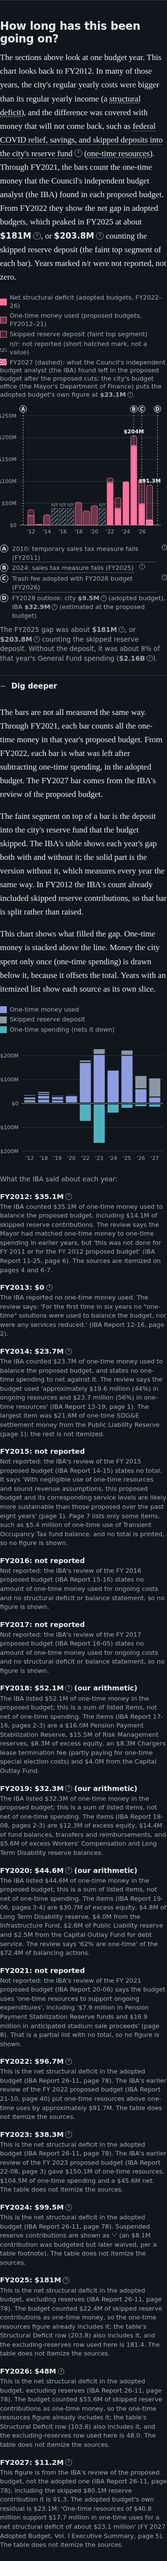
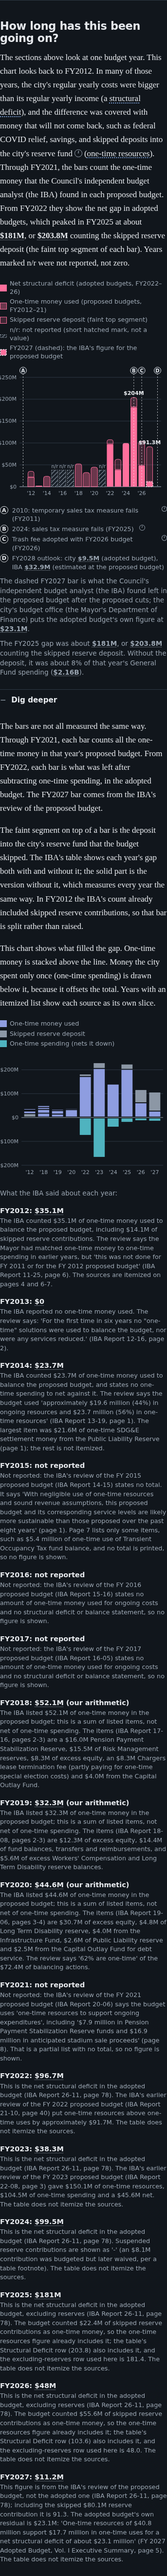
style(site): quieter chart furniture; the acceptance run clicks every footnote
Headline cards take their own height instead of stretching to the tallest. The waterfall's
numbered list sits in the text column. The history chart's legend keeps short labels and
its FY2027 explanation moves to a caption. The cuts tables lose the Source column: each
row's source hangs off the item name and the reason. The calculator's framing line is
sentence case. accept.mjs now opens all source popovers once at 1200px and fails if any
lands off the page or away from its control.

Changed region(s): [[0.0, 0.0, 0.9913, 1.0], [0.6706, 0.9688, 0.7289, 1.0], [0.9913, 0.1875, 1.0, 0.2188]]

diff --git a/site/charts/deficit-bars.js b/site/charts/deficit-bars.js
@@ -139,13 +139,7 @@ export function render(el, data, colors) {
   legendItem(legend, '<svg width="14" height="14" aria-hidden="true"><rect x=".5" y=".5" width="13" height="13" fill="var(--gap)" fill-opacity=".38" stroke="var(--gap)"/></svg>', 'One-time money used (proposed budgets, FY2012\u201321)');
   legendItem(legend, '<svg width="14" height="14" aria-hidden="true"><rect x=".5" y=".5" width="13" height="13" fill="var(--gap)" fill-opacity=".2" stroke="var(--gap)"/></svg>', 'Skipped reserve deposit (faint top segment)');
   legendItem(legend, '<svg width="14" height="14" aria-hidden="true"><rect x=".5" y="7.5" width="13" height="6" fill="url(#hatch)" stroke="var(--muted)" stroke-dasharray="2 2"/></svg>', 'n/r: not reported (short hatched mark, not a value)');
-  const note27 = document.createElement('li');
-  note27.className = 'legend-note';
-  note27.innerHTML = '<svg width="14" height="14" aria-hidden="true" style="vertical-align:-2px;margin-right:6px"><rect x="1" y="1" width="12" height="12" fill="var(--gap)" stroke="var(--text)" stroke-width="1.5" stroke-dasharray="3 2"/></svg>';
-  note27.append("FY2027 (dashed): what the Council's independent budget analyst (the IBA) found left in the proposed budget after the proposed cuts; the city's budget office (the Mayor's Department of Finance) puts the adopted budget's own figure at ");
-  if (data.fy27_adopted) { const f = document.createElement('span'); srcAttrs(f, data.fy27_adopted); f.textContent = `$${data.fy27_adopted.value}M`; note27.append(f); }
-  note27.append('.');
-  legend.append(note27);
+  legendItem(legend, '<svg width="14" height="14" aria-hidden="true"><rect x="1" y="1" width="12" height="12" fill="var(--gap)" stroke="var(--text)" stroke-width="1.5" stroke-dasharray="3 2"/></svg>', "FY2027 (dashed): the IBA's figure for the proposed budget");
   el.append(legend);
 
   const svg = d3.select(el).append('svg')
@@ -284,6 +278,15 @@ export function render(el, data, colors) {
     ol.append(li);
   });
   el.append(ol);
+  const cap27 = document.createElement('p');
+  cap27.className = 'chart-cap';
+  cap27.append("The dashed FY2027 bar is what the Council's independent budget analyst (the IBA) found left in the proposed budget after the proposed cuts");
+  if (data.fy27_adopted) {
+    const f = document.createElement('span'); srcAttrs(f, data.fy27_adopted); f.textContent = `$${data.fy27_adopted.value}M`;
+    cap27.append("; the city's budget office (the Mayor's Department of Finance) puts the adopted budget's own figure at ", f);
+  }
+  cap27.append('.');
+  el.append(cap27);
   if (data.stats.peak_share != null) {
     const cap = document.createElement('p');
     cap.className = 'chart-cap';

diff --git a/site/cuts.js b/site/cuts.js
@@ -1,7 +1,7 @@
 // Chapter 2 dig-deeper tables: FY2027 reductions and what was recommended or added back.
 // Source spans use the shared .figure + data-src-* convention; app.js mounts the popover buttons.
 import { money } from './format.js';
-import { srcData } from './sources.js';
+import { srcData, cite } from './sources.js';
 
 function srcSpan(src, text) {
   const s = document.createElement('span');
@@ -60,26 +60,23 @@ function tableBlock(title, intro, heads, rows) {
   return frag;
 }
 
-// The source link names where the row came from ("May Revision", "IBA-recommended Council modification"), not a fixed label.
-export const statusLabel = (status) => (status || 'Source').split(' (')[0].trim();
-
 export function renderCuts(el, cuts) {
   const amount = (a) => (a ? srcSpan(a.source, money(a.value)) : 'not stated');
+  // The row's source hangs off the item name and the reason's off the reason, rather than a column of "Cut / Reason".
   const red = cuts.reductions.map((r) => [
-    r.item,
+    cite(r.source, r.item),
     r.fund && r.fund !== 'General Fund' ? `${r.dept} (${r.fund})` : r.dept,
     amount(r.amount_m),
-    r.reason,
-    [srcSpan(r.source, 'Cut'), ' ', srcSpan(r.reason_source, 'Reason')],
+    cite(r.reason_source, r.reason),
   ]);
-  const res = cuts.restorations.map((r) => [r.item, r.status, amount(r.amount_m), srcSpan(r.source, statusLabel(r.status))]);
+  const res = cuts.restorations.map((r) => [cite(r.source, r.item), r.status, amount(r.amount_m)]);
   el.replaceChildren(
     tableBlock('What the budget cut',
       'These are the reductions listed under "Critical Reductions" in the adopted budget. The amounts are the proposed-budget figures from the review by the Council\'s independent budget analyst (the IBA), and some were later partly added back (see the next table). The reasons come from the IBA\'s department reviews.',
-      ['Item', 'Department', 'Amount proposed', 'Reason', 'Source'], red),
+      ['Item', 'Department', 'Amount proposed', 'Reason'], red),
     tableBlock('Recommended or added back',
       'Items that the Mayor\'s revised proposal (the May Revision) put back or that the IBA recommended the Council change, and one the Mayor commented on. Each row says which.',
-      ['Item', 'Where it came from', 'Amount', 'Source'], res),
+      ['Item', 'Where it came from', 'Amount'], res),
   );
 }
 

diff --git a/site/styles.css b/site/styles.css
@@ -241,7 +241,7 @@ main { padding-bottom: 80px; }
 .gap-cols { display: grid; gap: 16px; grid-template-columns: 1fr; }
 @media (min-width: 640px) { .gap-cols.n2 { grid-template-columns: 1fr 1fr; } }
 .gap-col { background: var(--surface); border: 1px solid var(--rule); border-radius: 10px; padding: 16px; min-width: 0; }
-.gap-framing { margin: 0; font: 650 0.8rem/1.3 var(--font-ui); letter-spacing: 0.06em; text-transform: uppercase; color: var(--muted); }
+.gap-framing { margin: 0; font: 650 0.85rem/1.3 var(--font-ui); color: var(--muted); }
 .gap-amount { margin: 4px 0 12px; font: 1.1rem/1.3 var(--font-ui); }
 .gap-amount .figure { font-size: 2.1rem; color: var(--gap); }
 .gap-rows { margin: 0; }
@@ -411,7 +411,7 @@ main { padding-bottom: 80px; }
    large sans number. Plain tiles with a top rule (no shadow); they sit in a row from 640px and stack below that. */
 
 .sub-h { margin: 32px 0 6px; font: 700 1.1rem/1.3 var(--font-ui); letter-spacing: -0.005em; }
-.hl-cards { display: grid; grid-template-columns: 1fr; gap: 14px; margin: 8px 0 0; }
+.hl-cards { display: grid; grid-template-columns: 1fr; gap: 14px; margin: 8px 0 0; align-items: start; } /* each card as tall as its own text */
 .hl-card { background: var(--surface); border-top: 3px solid var(--text); padding: 12px 14px 14px; min-width: 0; }
 .hl-q { margin: 0 0 6px; font: italic 400 1.05rem/1.35 var(--font-body); letter-spacing: 0; }
 .hl-num { margin: 0; font: 750 1.9rem/1.1 var(--font-ui); letter-spacing: -0.02em; }
@@ -577,3 +577,4 @@ main { padding-bottom: 80px; }
 .hero > figcaption { max-width: var(--col); }
 .masthead > h1 { max-width: none !important; margin-left: max(0px, calc((100% - var(--col)) / 2)) !important; } /* starts at the column, may run past it */
 .wide p, .wide li, .wide dd { max-width: var(--col); }
+.wide .wf-steps, .wide .wf-after { max-width: var(--col); margin-left: auto; margin-right: auto; } /* the waterfall's step list reads as text: it sits in the column */
